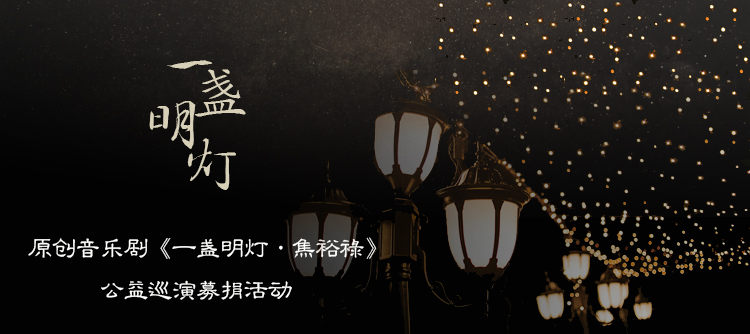
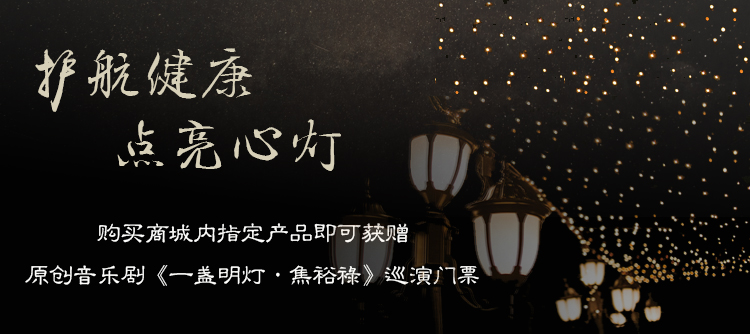
等等相关图标，轮播图修改。活动页面添加

diff --git a/app/assets/stylesheets/wechat/home.scss b/app/assets/stylesheets/wechat/home.scss
@@ -265,7 +265,7 @@ body {
 .activityContent {
     width: 100%;
     height: 100%;
-    background-image: image-url("hd_bg.jpg");
+    background-image: image-url("hd_bg2.jpg");
     background-size: 100%;
     position: relative;
 }
